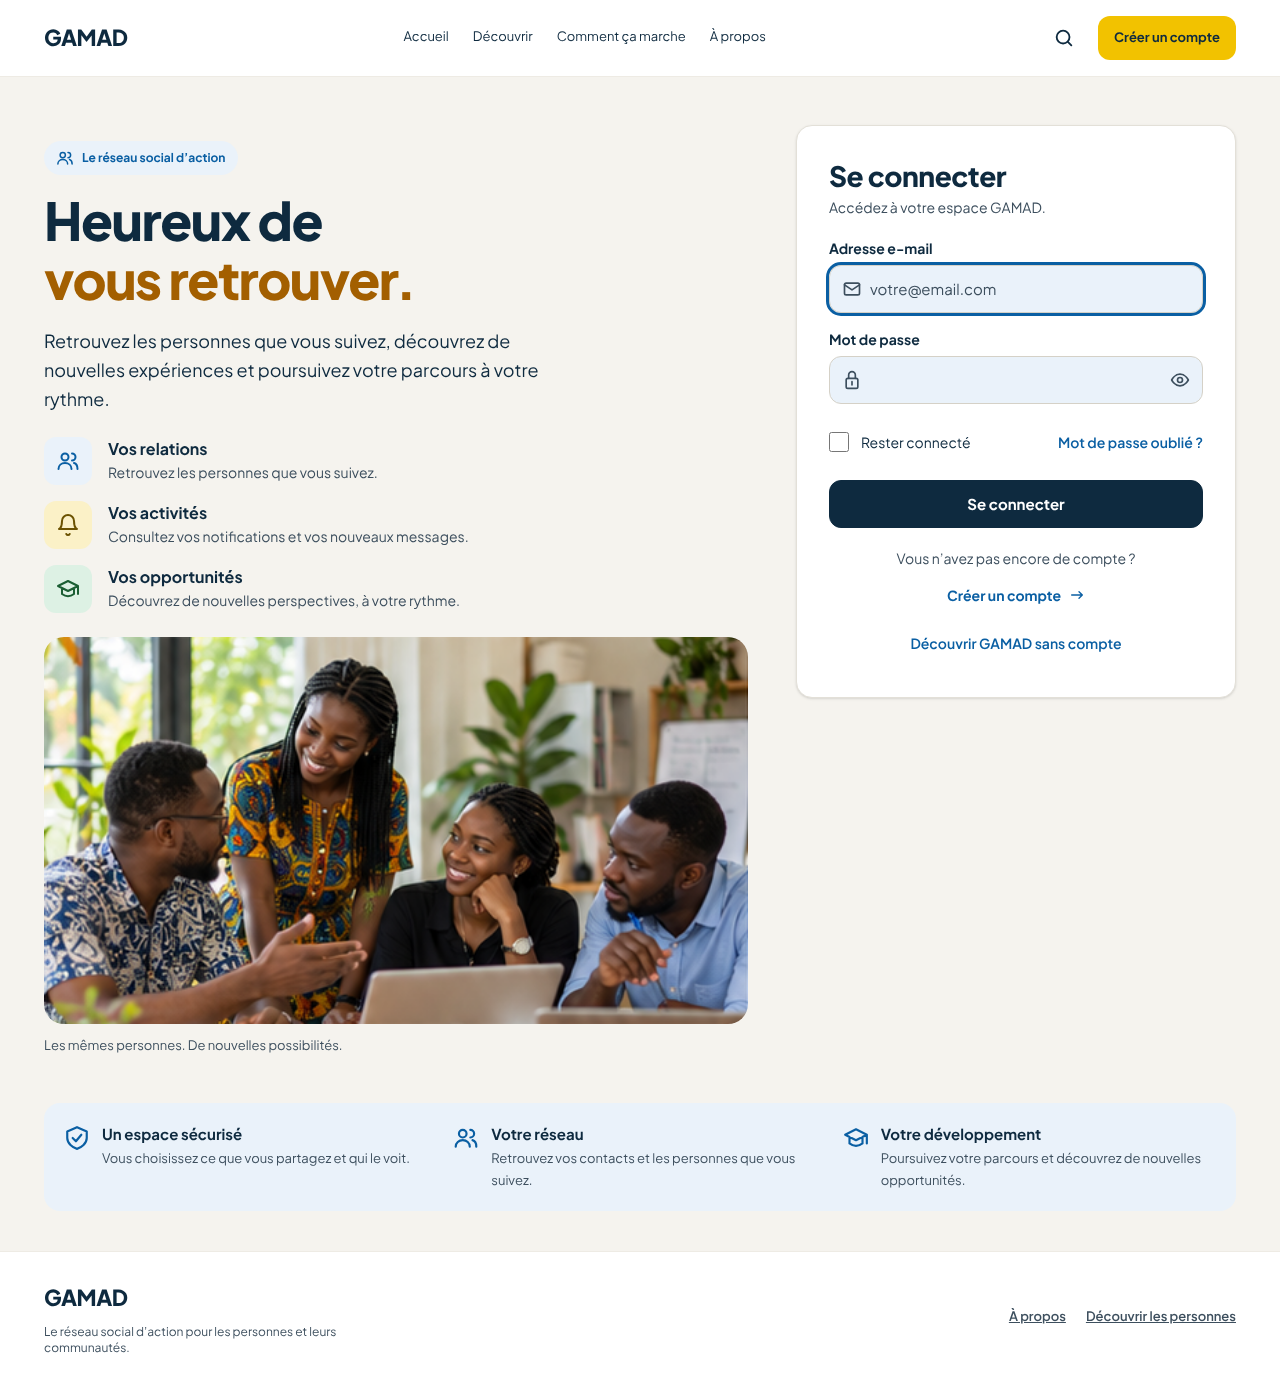
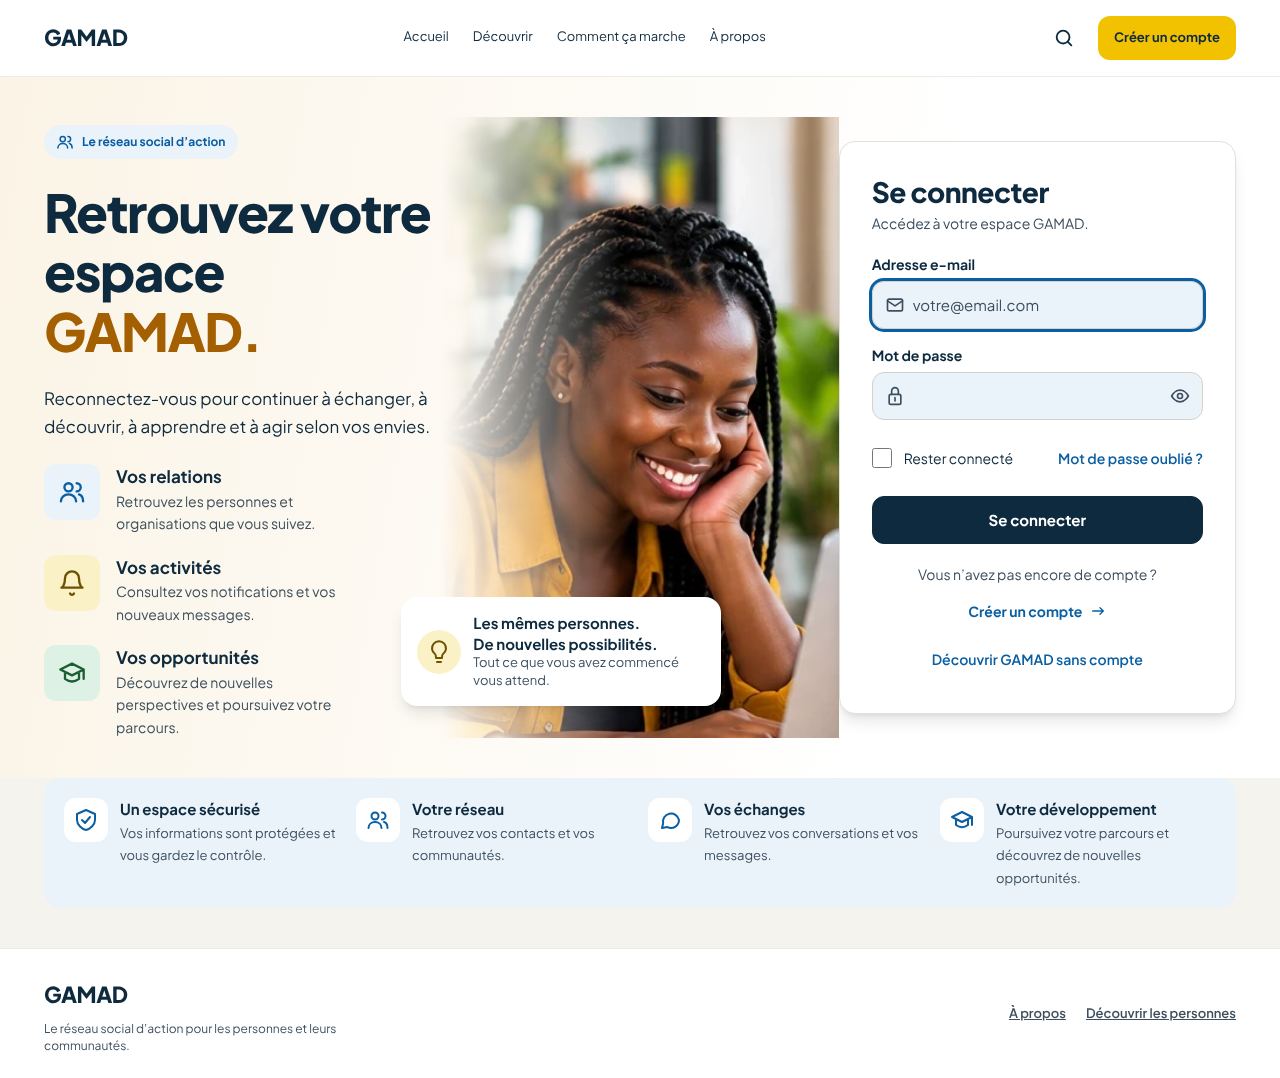
Connexion : mise en page fidèle à la maquette (portrait fondu, carte superposée, légende)
Claude-Session: https://claude.ai/code/session_01HadbpwLj9VLL4L1zDggZLr

diff --git a/resources/css/app.css b/resources/css/app.css
@@ -392,6 +392,14 @@
     }
 }
 
+/* Page de connexion : portrait fondu dans le décor, au-dessus d'un fond chaud. */
+@layer components {
+    .login-stage { background: linear-gradient(100deg, #fbf4e6, #fff 70%); }
+    @media (min-width: 1024px) {
+        .login-photo { -webkit-mask-image: linear-gradient(to right, transparent, #000 45%); mask-image: linear-gradient(to right, transparent, #000 45%); }
+    }
+}
+
 /* Page Contributions (C1) : bandeau d'en-tête. */
 @layer components {
     .contrib-hero { background: linear-gradient(120deg, #0a2d68, #0b4aa6); }

diff --git a/resources/views/auth/login.blade.php b/resources/views/auth/login.blade.php
@@ -1,71 +1,75 @@
 <x-layouts.landing title="Connexion" :login="true">
-    <div class="landing-container grid grid-cols-[minmax(0,1fr)] gap-8 py-6 lg:grid-cols-[minmax(0,1fr)_minmax(0,440px)] lg:items-start lg:gap-12 lg:py-12">
-        {{-- Le formulaire passe en premier sur téléphone : rien ne retarde la saisie. --}}
-        <section aria-labelledby="titre-connexion" class="order-1 rounded-card border border-line bg-card p-6 shadow-sm md:p-8 lg:order-2">
-            <h1 id="titre-connexion" class="text-[28px] font-extrabold leading-tight tracking-[-0.5px]">Se connecter</h1>
-            <p class="mt-1 text-[14px] text-muted">Accédez à votre espace GAMAD.</p>
-
-            @if (session('status'))
-                <div class="mt-4"><x-status>{{ session('status') }}</x-status></div>
-            @endif
-
-            <form method="POST" action="{{ route('login.store') }}" class="mt-5 flex flex-col gap-4" x-data="{ busy: false, show: false }" x-on:submit="if (busy) { $event.preventDefault() } else { busy = true }">
-                @csrf
-                <div class="flex flex-col gap-1.5">
-                    <label for="email" class="text-[14px] font-bold">Adresse e-mail</label>
-                    <div class="flex min-h-12 items-center gap-2 rounded-button border bg-soft-blue px-3 focus-within:outline focus-within:outline-[3px] focus-within:outline-link {{ $errors->has('email') ? 'border-danger' : 'border-chip-line' }}">
-                        <x-icon name="mail" :size="20" class="shrink-0 text-muted" />
-                        <input id="email" type="email" name="email" value="{{ old('email') }}" autocomplete="email" required autofocus placeholder="votre@email.com" class="min-h-11 min-w-0 flex-1 border-0 bg-transparent text-[15px] outline-none placeholder:text-muted" @if ($errors->has('email')) aria-invalid="true" aria-describedby="email-error" @endif>
-                    </div>
-                    @error('email')<p id="email-error" role="alert" class="text-[13px] font-semibold text-danger">{{ $message }}</p>@enderror
-                </div>
-
-                <div class="flex flex-col gap-1.5">
-                    <label for="password" class="text-[14px] font-bold">Mot de passe</label>
-                    <div class="flex min-h-12 items-center gap-2 rounded-button border border-chip-line bg-soft-blue pl-3 focus-within:outline focus-within:outline-[3px] focus-within:outline-link">
-                        <x-icon name="lock" :size="20" class="shrink-0 text-muted" />
-                        <input id="password" x-bind:type="show ? 'text' : 'password'" type="password" name="password" autocomplete="current-password" required class="min-h-11 min-w-0 flex-1 border-0 bg-transparent text-[15px] outline-none">
-                        <button type="button" x-on:click="show = ! show" x-bind:aria-pressed="show.toString()" x-bind:aria-label="show ? 'Masquer le mot de passe' : 'Afficher le mot de passe'" class="flex size-11 shrink-0 items-center justify-center rounded-button text-muted hover:text-ink"><x-icon name="eye" :size="20" x-show="! show" /><x-icon name="eye-off" :size="20" x-show="show" x-cloak /></button>
-                    </div>
-                </div>
-
-                <div class="flex flex-wrap items-center justify-between gap-x-4">
-                    <label class="flex min-h-11 items-center gap-3 text-[14px]"><input type="checkbox" name="remember" value="1" class="size-5 rounded border-chip-line accent-ink">Rester connecté</label>
-                    <a href="{{ route('password.request') }}" class="inline-flex min-h-11 items-center text-[14px] font-semibold">Mot de passe oublié ?</a>
-                </div>
-
-                <x-button x-bind:disabled="busy" class="min-h-12 w-full"><span x-show="! busy">Se connecter</span><span x-show="busy" x-cloak>Connexion…</span></x-button>
-            </form>
-
-            <div class="mt-5 flex flex-col items-center gap-1 text-center text-[14px]">
-                <p class="text-muted">Vous n’avez pas encore de compte ?</p>
-                <a href="{{ route('register') }}" class="inline-flex min-h-11 items-center gap-2 font-bold">Créer un compte<x-icon name="arrow-right" :size="16" /></a>
-                <a href="{{ route('home') }}" class="inline-flex min-h-11 items-center font-semibold">Découvrir GAMAD sans compte</a>
-            </div>
-        </section>
-
-        <section aria-labelledby="accueil-humain" class="order-2 flex min-w-0 flex-col gap-6 lg:order-1 lg:pt-4">
-            <div class="flex flex-col items-start gap-4">
-                <span class="inline-flex items-center gap-2 rounded-chip bg-soft-blue px-3 py-2 text-[12px] font-bold text-link"><x-icon name="group" :size="18" />Le réseau social d’action</span>
-                <h2 id="accueil-humain" class="landing-headline">Heureux de <span class="block text-[#a35f00]">vous retrouver.</span></h2>
-                <p class="max-w-lg text-[16px] leading-relaxed md:text-[18px]">Retrouvez les personnes que vous suivez, découvrez de nouvelles expériences et poursuivez votre parcours à votre rythme.</p>
-            </div>
-            <ul class="m-0 hidden list-none flex-col gap-4 p-0 sm:flex">
-                @foreach ([['group', 'Vos relations', 'Retrouvez les personnes que vous suivez.', 'bg-soft-blue text-link'], ['bell', 'Vos activités', 'Consultez vos notifications et vos nouveaux messages.', 'bg-type-call-bg text-type-call-fg'], ['learn', 'Vos opportunités', 'Découvrez de nouvelles perspectives, à votre rythme.', 'bg-type-knowledge-bg text-type-knowledge-fg']] as [$icon, $title, $text, $tone])
-                    <li class="flex items-start gap-4"><span class="flex size-12 shrink-0 items-center justify-center rounded-button {{ $tone }}"><x-icon :name="$icon" :size="24" /></span><span><strong class="block text-[16px]">{{ $title }}</strong><span class="text-[14px] leading-snug text-muted">{{ $text }}</span></span></li>
-                @endforeach
-            </ul>
-            <figure class="m-0 hidden min-w-0 lg:block">
-                <img src="{{ asset('images/gamad-accueil-hero.webp') }}" alt="" width="510" height="280" decoding="async" class="block h-auto w-full rounded-[20px]">
-                <figcaption class="mt-3 text-[13px] text-muted">Les mêmes personnes. De nouvelles possibilités.</figcaption>
+    <div class="login-stage">
+        <div class="landing-container grid grid-cols-[minmax(0,1fr)] gap-0 pb-8 pt-0 lg:grid-cols-12 lg:items-stretch lg:gap-0 lg:py-10">
+            {{-- Portrait : bandeau compact sur téléphone (le formulaire reste tout de suite accessible), grande image fondue sur ordinateur. --}}
+            <figure class="relative m-0 mb-16 lg:col-span-4 lg:col-start-5 lg:row-start-1 lg:mb-0 lg:min-h-[540px]">
+                <img src="{{ asset('images/gamad-connexion-portrait.webp') }}" alt="" width="388" height="532" fetchpriority="high" decoding="async" class="login-photo h-64 w-full rounded-b-card object-cover object-[50%_30%] lg:h-full lg:rounded-none lg:object-[50%_0]">
+                <figcaption class="absolute inset-x-3 -bottom-14 flex items-center gap-3 rounded-card bg-card p-3 shadow-lg lg:-left-10 lg:bottom-8 lg:right-auto lg:w-[320px] lg:p-4">
+                    <span aria-hidden="true" class="flex size-11 shrink-0 items-center justify-center rounded-full bg-type-call-bg text-type-call-fg"><x-icon name="idea" :size="24" /></span>
+                    <span><strong class="block text-[14px] leading-snug lg:text-[15px]">Les mêmes personnes.<br>De nouvelles possibilités.</strong><span class="block text-[12px] leading-snug text-muted lg:text-[13px]">Tout ce que vous avez commencé vous attend.</span></span>
+                </figcaption>
             </figure>
-        </section>
+
+            <section aria-labelledby="accueil-humain" class="relative z-10 hidden min-w-0 flex-col gap-6 lg:col-span-5 lg:col-start-1 lg:row-start-1 lg:flex lg:pr-6 lg:pt-2">
+                <span class="inline-flex items-center gap-2 self-start rounded-chip bg-soft-blue px-3 py-2 text-[12px] font-bold text-link"><x-icon name="group" :size="18" />Le réseau social d’action</span>
+                <h2 id="accueil-humain" class="landing-headline">Retrouvez votre espace <span class="block text-[#a35f00]">GAMAD.</span></h2>
+                <p class="max-w-md text-[17px] leading-relaxed">Reconnectez-vous pour continuer à échanger, à découvrir, à apprendre et à agir selon vos envies.</p>
+                <ul class="m-0 flex list-none flex-col gap-5 p-0">
+                    @foreach ([['group', 'Vos relations', 'Retrouvez les personnes et organisations que vous suivez.', 'bg-soft-blue text-link'], ['bell', 'Vos activités', 'Consultez vos notifications et vos nouveaux messages.', 'bg-type-call-bg text-type-call-fg'], ['learn', 'Vos opportunités', 'Découvrez de nouvelles perspectives et poursuivez votre parcours.', 'bg-type-knowledge-bg text-type-knowledge-fg']] as [$icon, $title, $text, $tone])
+                        <li class="flex items-start gap-4"><span class="flex size-14 shrink-0 items-center justify-center rounded-button {{ $tone }}"><x-icon :name="$icon" :size="28" /></span><span class="max-w-[230px]"><strong class="block text-[17px]">{{ $title }}</strong><span class="text-[14px] leading-snug text-muted">{{ $text }}</span></span></li>
+                    @endforeach
+                </ul>
+            </section>
+
+        <section aria-labelledby="titre-connexion" class="relative z-10 rounded-card border border-line bg-card p-6 shadow-lg md:p-8 lg:col-span-4 lg:col-start-9 lg:row-start-1 lg:mt-0 lg:self-center">
+                <h1 id="titre-connexion" class="text-[28px] font-extrabold leading-tight tracking-[-0.5px]">Se connecter</h1>
+                <p class="mt-1 text-[14px] text-muted">Accédez à votre espace GAMAD.</p>
+
+                @if (session('status'))
+                    <div class="mt-4"><x-status>{{ session('status') }}</x-status></div>
+                @endif
+
+                <form method="POST" action="{{ route('login.store') }}" class="mt-5 flex flex-col gap-4" x-data="{ busy: false, show: false }" x-on:submit="if (busy) { $event.preventDefault() } else { busy = true }">
+                    @csrf
+                    <div class="flex flex-col gap-1.5">
+                        <label for="email" class="text-[14px] font-bold">Adresse e-mail</label>
+                        <div class="flex min-h-12 items-center gap-2 rounded-button border bg-soft-blue px-3 focus-within:outline focus-within:outline-[3px] focus-within:outline-link {{ $errors->has('email') ? 'border-danger' : 'border-chip-line' }}">
+                            <x-icon name="mail" :size="20" class="shrink-0 text-muted" />
+                            <input id="email" type="email" name="email" value="{{ old('email') }}" autocomplete="email" required autofocus placeholder="votre@email.com" class="min-h-11 min-w-0 flex-1 border-0 bg-transparent text-[15px] outline-none placeholder:text-muted" @if ($errors->has('email')) aria-invalid="true" aria-describedby="email-error" @endif>
+                        </div>
+                        @error('email')<p id="email-error" role="alert" class="text-[13px] font-semibold text-danger">{{ $message }}</p>@enderror
+                    </div>
+
+                    <div class="flex flex-col gap-1.5">
+                        <label for="password" class="text-[14px] font-bold">Mot de passe</label>
+                        <div class="flex min-h-12 items-center gap-2 rounded-button border border-chip-line bg-soft-blue pl-3 focus-within:outline focus-within:outline-[3px] focus-within:outline-link">
+                            <x-icon name="lock" :size="20" class="shrink-0 text-muted" />
+                            <input id="password" x-bind:type="show ? 'text' : 'password'" type="password" name="password" autocomplete="current-password" required class="min-h-11 min-w-0 flex-1 border-0 bg-transparent text-[15px] outline-none">
+                            <button type="button" x-on:click="show = ! show" x-bind:aria-pressed="show.toString()" x-bind:aria-label="show ? 'Masquer le mot de passe' : 'Afficher le mot de passe'" class="flex size-11 shrink-0 items-center justify-center rounded-button text-muted hover:text-ink"><x-icon name="eye" :size="20" x-show="! show" /><x-icon name="eye-off" :size="20" x-show="show" x-cloak /></button>
+                        </div>
+                    </div>
+
+                    <div class="flex flex-wrap items-center justify-between gap-x-4">
+                        <label class="flex min-h-11 items-center gap-3 text-[14px]"><input type="checkbox" name="remember" value="1" class="size-5 rounded border-chip-line accent-ink">Rester connecté</label>
+                        <a href="{{ route('password.request') }}" class="inline-flex min-h-11 items-center text-[14px] font-semibold">Mot de passe oublié ?</a>
+                    </div>
+
+                    <x-button x-bind:disabled="busy" class="min-h-12 w-full"><span x-show="! busy">Se connecter</span><span x-show="busy" x-cloak>Connexion…</span></x-button>
+                </form>
+
+                <div class="mt-5 flex flex-col items-center gap-1 text-center text-[14px]">
+                    <p class="text-muted">Vous n’avez pas encore de compte ?</p>
+                    <a href="{{ route('register') }}" class="inline-flex min-h-11 items-center gap-2 font-bold">Créer un compte<x-icon name="arrow-right" :size="16" /></a>
+                    <a href="{{ route('home') }}" class="inline-flex min-h-11 items-center font-semibold">Découvrir GAMAD sans compte</a>
+                </div>
+            </section>
+        </div>
     </div>
 
-    <section class="landing-container pb-10" aria-label="Ce que GAMAD garantit">
-        <ul class="m-0 grid list-none gap-4 rounded-card bg-soft-blue p-5 sm:grid-cols-3">
-            @foreach ([['shield', 'Un espace sécurisé', 'Vous choisissez ce que vous partagez et qui le voit.'], ['group', 'Votre réseau', 'Retrouvez vos contacts et les personnes que vous suivez.'], ['learn', 'Votre développement', 'Poursuivez votre parcours et découvrez de nouvelles opportunités.']] as [$icon, $title, $text])
-                <li class="flex items-start gap-3"><x-icon :name="$icon" :size="26" class="mt-0.5 shrink-0 text-link" /><span><strong class="block text-[15px]">{{ $title }}</strong><span class="text-[13px] leading-snug text-muted">{{ $text }}</span></span></li>
+    <section class="landing-container hidden pb-10 sm:block" aria-label="Ce que GAMAD garantit">
+        <ul class="m-0 grid list-none gap-4 rounded-card bg-soft-blue p-5 sm:grid-cols-2 lg:grid-cols-4">
+            @foreach ([['shield', 'Un espace sécurisé', 'Vos informations sont protégées et vous gardez le contrôle.'], ['group', 'Votre réseau', 'Retrouvez vos contacts et vos communautés.'], ['chat', 'Vos échanges', 'Retrouvez vos conversations et vos messages.'], ['learn', 'Votre développement', 'Poursuivez votre parcours et découvrez de nouvelles opportunités.']] as [$icon, $title, $text])
+                <li class="flex items-start gap-3"><span class="flex size-11 shrink-0 items-center justify-center rounded-button bg-card text-link"><x-icon :name="$icon" :size="24" /></span><span><strong class="block text-[15px]">{{ $title }}</strong><span class="text-[13px] leading-snug text-muted">{{ $text }}</span></span></li>
             @endforeach
         </ul>
     </section>

diff --git a/tests/Feature/Auth/ConnexionRefonteTest.php b/tests/Feature/Auth/ConnexionRefonteTest.php
@@ -5,7 +5,7 @@ use App\Models\User;
 /** Refonte de la page de connexion : visuel et ergonomie seulement, mécanismes d'authentification inchangés. */
 it('présente la page de connexion à un visiteur, avec les champs, libellés et liens réels', function () {
     $html = $this->get(route('login'))->assertOk()
-        ->assertSeeText('Heureux de')->assertSeeText('vous retrouver.')->assertSeeText('Se connecter')
+        ->assertSeeText('Retrouvez votre espace')->assertSeeText('GAMAD.')->assertSeeText('Les mêmes personnes.')->assertSeeText('Se connecter')
         ->assertSeeText('Adresse e-mail')->assertSeeText('Mot de passe')->assertSeeText('Rester connecté')
         ->assertSeeText('Mot de passe oublié ?')->assertSeeText('Créer un compte')->assertSeeText('Découvrir GAMAD sans compte')
         ->getContent();

diff --git a/public/images/README.md b/public/images/README.md
@@ -14,3 +14,9 @@ convert maquette.png -crop 510x280+520+107 +repage -define webp:lossless=true ga
 ```
 
 ImageMagick n’est pas une dépendance de l’application ; l’asset final suffit au déploiement.
+
+# Portrait de la page de connexion
+
+`gamad-connexion-portrait.webp` est la zone photographique de la maquette de connexion approuvée le 26 octobre 2026, isolée comme la photo du héros ci-dessus : origine (392, 70), dimensions 388 × 532 px, encodage WebP (qualité 92). Le texte, la légende et le formulaire de la maquette sont recréés en HTML. La photo ne représente pas un membre identifié du réseau.
+
[1 lines of base64/hex data omitted]
